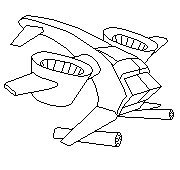
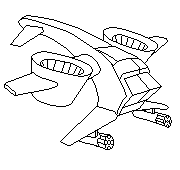
* Added: Comanche and Mech sprites.

diff --git a/MobileClient/www/Assets/Render/SpriteAnimations/FightUnits/FlakTrooperFight.js b/MobileClient/www/Assets/Render/SpriteAnimations/FightUnits/FlakTrooperFight.js
@@ -119,6 +119,59 @@ SpriteAnimations.FightUnits.Biker = {
 	]
 };
 
+SpriteAnimations.FightUnits.Mech = {
+
+	resourcePath: 'Mech.png',
+
+	frameWidth: 180,
+	frameHeight: 170,
+	framesPerRow: 5,
+	speed: 14,
+	anchorX: Animator.AnchorX.Center,
+	anchorY: 145,
+	
+	sequences: [
+		{
+			name: 'Idle',
+			startIndex: 0,
+			frames: 1,
+		},
+		
+		
+		{
+			name: 'Idle0',
+			startIndex: 0,
+			frames: 1,
+		},
+		
+		{
+			name: 'Run',
+			startIndex: 0,
+			frames: 1,
+		},
+
+		{
+			name: 'Attack',
+			startIndex: 0,
+			frames: 1,
+			speed: 9,
+
+			events: [
+				
+				{
+					frame: 0,
+					event: FightRenderingEvents.Animations.FIRE,
+					params: {
+						weaponType: FightUnitWeaponType.Shotgun,
+						final: true,
+					}
+				},
+			],
+		},
+
+	]
+};
+
 SpriteAnimations.FightUnits.ScrapTank = {
 
 	resourcePath: 'ScrapTank.png',

diff --git a/MobileClient/www/Assets/Render/SpriteAnimations/Units/Comanche.js b/MobileClient/www/Assets/Render/SpriteAnimations/Units/Comanche.js
@@ -1,0 +1,27 @@
+
+SpriteAnimations.Units.Comanche = {
+
+	resourcePath: 'Comanche.png',
+	
+	frameWidth: 80,
+	frameHeight: 80,
+	framesPerRow: 4,
+	anchorX: Animator.AnchorX.Center,
+	anchorY: 40,
+
+	sequences: [
+		{
+			name: 'Idle',
+			startIndex: 0,
+			frames: 1,
+		},
+		
+		{
+			name: 'Attack',
+			speed: 10,
+			startIndex: 0,
+			frames: 1,
+		},
+		
+	]
+};
